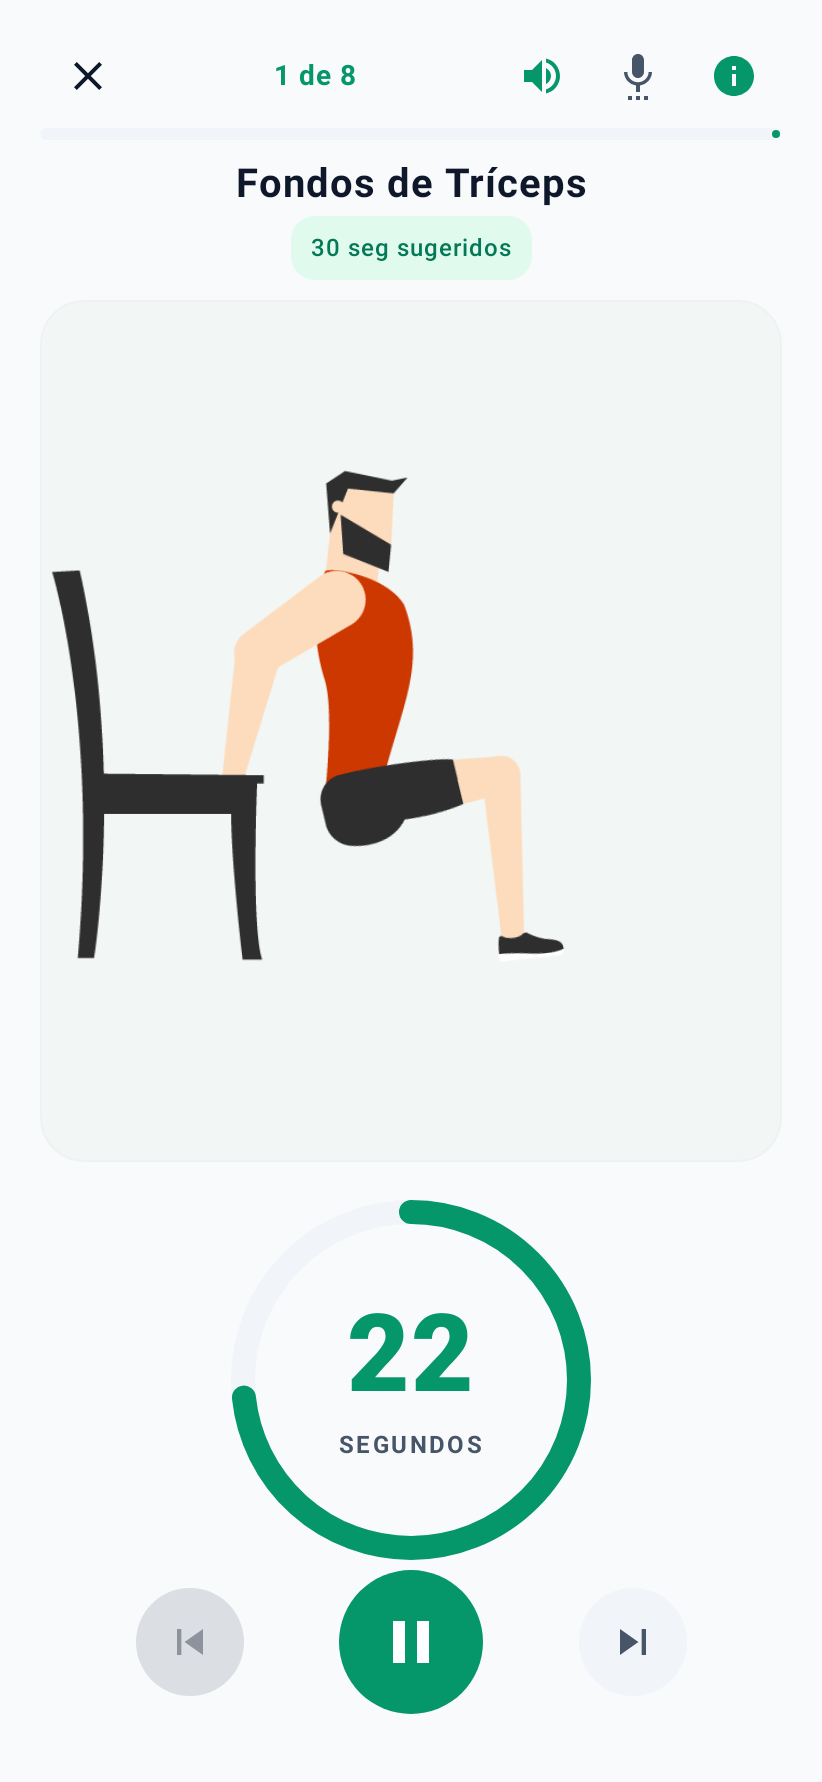
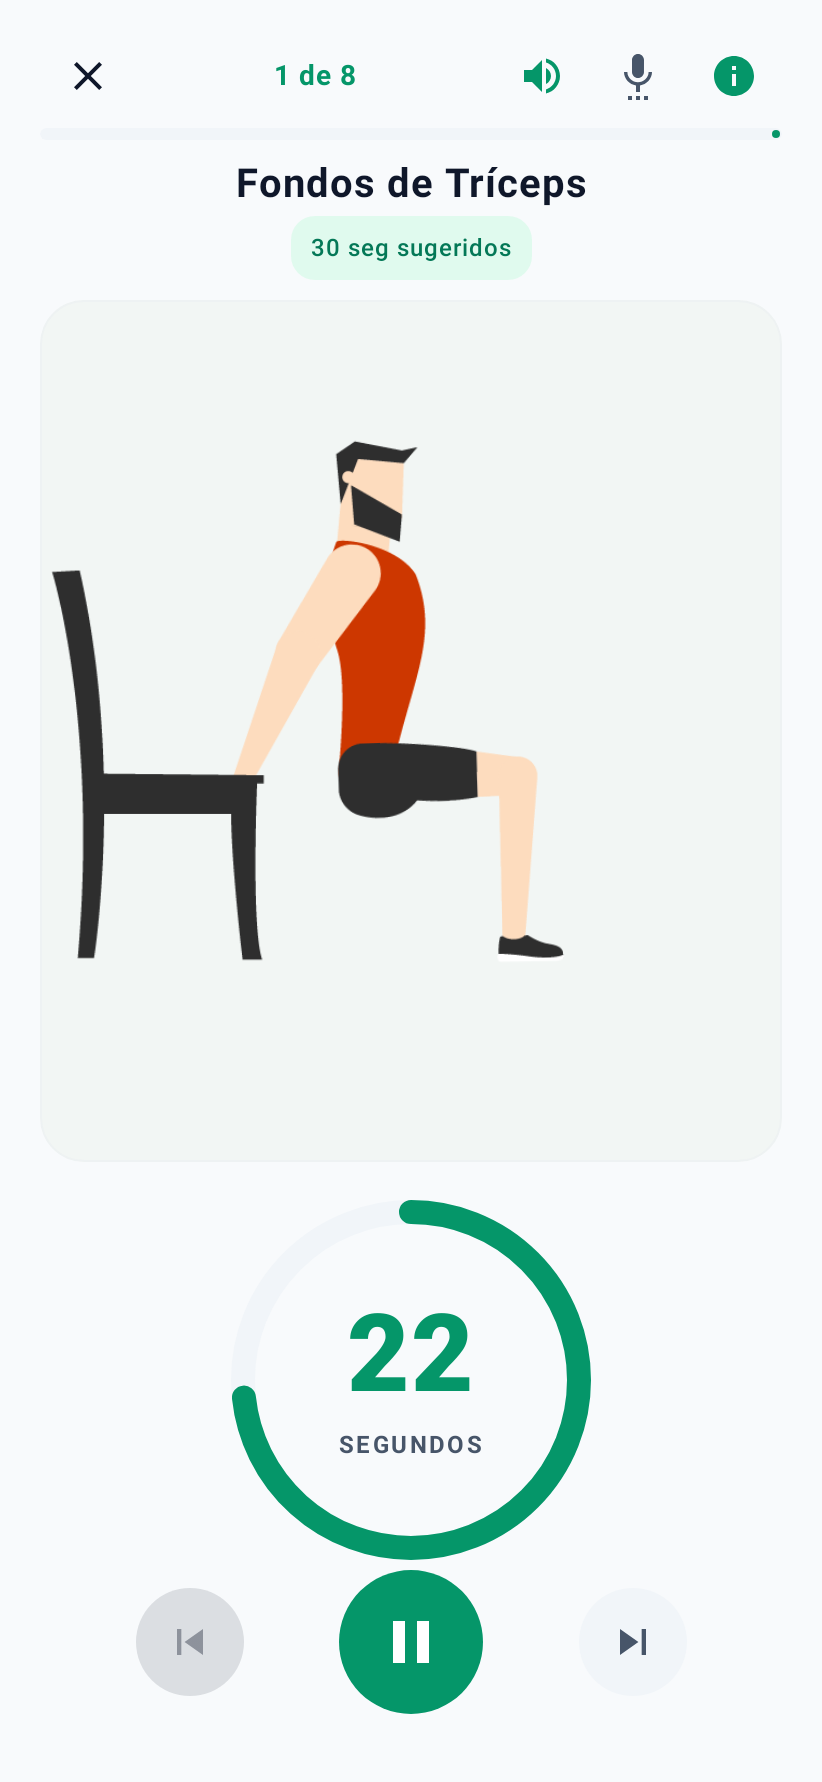
Animaciones: encuadre, arranque visible y bucle
- Las animaciones empiezan en un fotograma visible (35 % del bucle) para no dejar la tarjeta en blanco.
- Pausa proporcional al final de cada bucle antes de repetir.
- Encuadre revisado en canvas.json: esfinge sobre lienzo oscuro y varias animaciones más grandes.
- La ficha de técnica usa la misma proporción de tarjeta que el entrenamiento para que el zoom no recorte distinto.

Changed region(s): [[0.2737, 0.2469, 0.6995, 0.5556]]

diff --git a/app/src/main/java/com/example/ui/components/ExerciseMediaView.kt b/app/src/main/java/com/example/ui/components/ExerciseMediaView.kt
@@ -36,6 +36,12 @@ import org.json.JSONObject
 /** Metadatos: lienzo claro u oscuro recomendado para cada animación. */
 private const val LOTTIE_CANVAS_ASSET = "exercises/lottie/canvas.json"
 
+/** Fotograma inicial del bucle (0-1): evita los fundidos de entrada. */
+private const val START_FRACTION = 0.35f
+
+/** Pausa máxima en el último fotograma antes de repetir el bucle, en milisegundos. */
+private const val LOOP_HOLD_MS = 300.0
+
 /**
  * Ajuste de presentación de cada animación: lienzo con contraste, zoom y
  * punto de anclaje. Las animaciones vienen diseñadas sobre un fondo concreto
@@ -103,16 +109,25 @@ fun ExerciseMediaView(
         // animaciones del sistema: hay teléfonos con esa escala a 0 (ahorro de
         // batería o accesibilidad) y Lottie se quedaría congelado.
         val durationMs = (composition?.duration ?: 0f).toDouble()
-        var progress by remember(composition) { mutableFloatStateOf(0f) }
-        var elapsedMs by remember(composition) { mutableDoubleStateOf(0.0) }
+        var progress by remember(composition) { mutableFloatStateOf(START_FRACTION) }
+        // Arranca en un fotograma visible: varias animaciones empiezan con un
+        // fundido y la tarjeta se veía vacía hasta que el bucle avanzaba.
+        var elapsedMs by remember(composition) {
+            mutableDoubleStateOf(durationMs * START_FRACTION)
+        }
         LaunchedEffect(composition, isPaused, durationMs) {
             if (composition == null || durationMs <= 0.0 || isPaused) return@LaunchedEffect
+            val holdMs = minOf(LOOP_HOLD_MS, durationMs * 0.15)
+            val cycleMs = durationMs + holdMs
             var lastFrame = withFrameNanos { it }
             while (true) {
                 withFrameNanos { now ->
                     elapsedMs += (now - lastFrame) / 1_000_000.0
                     lastFrame = now
-                    progress = ((elapsedMs % durationMs) / durationMs).toFloat()
+                    // Pausa breve en el último fotograma antes de repetir.
+                    progress = ((elapsedMs % cycleMs) / durationMs)
+                        .coerceIn(0.0, 1.0)
+                        .toFloat()
                 }
             }
         }

diff --git a/app/src/main/java/com/example/ui/components/ExerciseDetailSheet.kt b/app/src/main/java/com/example/ui/components/ExerciseDetailSheet.kt
@@ -72,7 +72,11 @@ fun ExerciseDetailSheet(
                 ExerciseMediaView(
                     exercise = exercise,
                     isPaused = false,
-                    modifier = Modifier.fillMaxWidth()
+                    // Misma proporción que la tarjeta del entrenamiento: si la
+                    // ficha usa una tarjeta cuadrada, el zoom recorta distinto.
+                    modifier = Modifier
+                        .fillMaxWidth()
+                        .height(240.dp)
                 )
 
                 Spacer(modifier = Modifier.height(18.dp))
